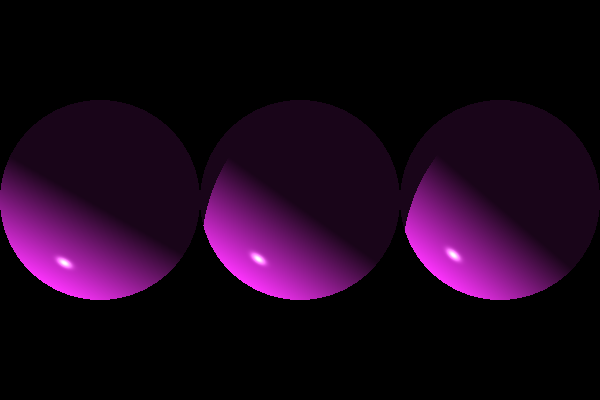
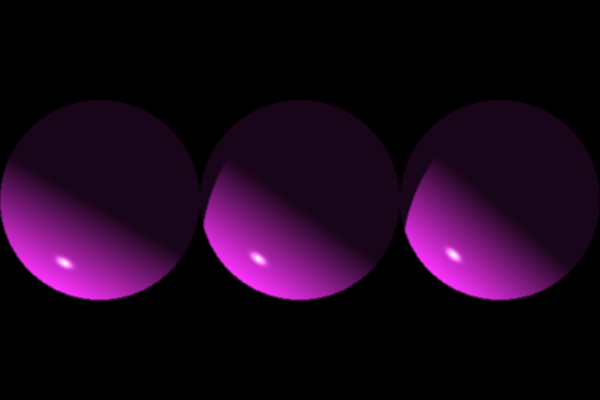
replace Scene::render with integrator::render

diff --git a/src/integrator/mod.rs b/src/integrator/mod.rs
@@ -58,23 +58,30 @@ pub fn render<'msh, 'mtrx, 'mtrl, S: Sampler>(
 ) {
     let image_sample_bounds = film.sample_bounds(filter.half_width(), filter.half_height());
     let (tile_count_x, tile_count_y) = tile_count(&image_sample_bounds);
-    for ty in 0..tile_count_y {
-        for tx in 0..tile_count_x {
+
+    let xs = 0..tile_count_x;
+    let ys = 0..tile_count_y;
+    let film_tiles: Vec<FilmTile> = ys
+        .flat_map(|y| xs.clone().map(move |x| (x, y)))
+        .filter_map(|(x, y)| {
             render_tile::<S>(
                 &camera,
                 film,
                 scene,
                 &image_sample_bounds,
-                tx,
-                ty,
+                x,
+                y,
                 tile_count_x,
                 &filter,
                 &ray_tracer,
                 max_depth,
-            );
-        }
+            )
+        })
+        .collect();
+
+    for ft in film_tiles {
+        film.merge_tile(&ft);
     }
-    // TODO: Merge film tiles returned by loop.
 }
 
 fn render_tile<'msh, 'mtrx, 'mtrl, S: Sampler>(
@@ -99,6 +106,8 @@ fn render_tile<'msh, 'mtrx, 'mtrl, S: Sampler>(
 
     if let Some(mut tile) = film.tile(&sample_bounds, filter.half_width(), filter.half_height()) {
         for pixel_min_corner in sample_bounds.range() {
+            println!("At ({}, {})", pixel_min_corner.x, pixel_min_corner.y);
+
             sampler.start_pixel(pixel_min_corner);
             loop {
                 let sample = sampler.get_camera_sample(pixel_min_corner);
@@ -148,8 +157,8 @@ fn tile_count(image_sample_bounds: &Bounds2<i32>) -> (usize, usize) {
     let sample_extent = image_sample_bounds.diagonal();
     const TILE_SIZE: usize = 16;
     (
-        (sample_extent.x.min(0) as usize + TILE_SIZE - 1) / TILE_SIZE,
-        (sample_extent.y.min(0) as usize + TILE_SIZE - 1) / TILE_SIZE,
+        (sample_extent.x.max(0) as usize + TILE_SIZE - 1) / TILE_SIZE,
+        (sample_extent.y.max(0) as usize + TILE_SIZE - 1) / TILE_SIZE,
     )
 }
 

diff --git a/src/scene.rs b/src/scene.rs
@@ -1,53 +1,13 @@
 use crate::{
-    camera::{Camera, CameraSample},
-    film::Film,
-    integrator::RayTracer,
     interaction::SurfaceInteraction,
     light::LightSource,
     primitive::{Primitive, PrimitiveAggregate},
     ray::Ray,
-    sampler::Sampler,
 };
-use cgmath::Point2;
-use image::ImageBuffer;
-use typed_arena::Arena;
 
 pub struct Scene<'msh, 'mtrx, 'mtrl> {
     pub primitives: PrimitiveAggregate<'msh, 'mtrx, 'mtrl>,
     pub lights: Vec<LightSource>,
-}
-
-pub fn render<'msh, 'mtrx, 'mtrl, S: Sampler>(
-    scene: &Scene<'msh, 'mtrx, 'mtrl>,
-    camera: Box<dyn Camera>,
-    film: &mut Film,
-    ray_tracer: Box<dyn RayTracer<'msh, 'mtrx, 'mtrl, S>>,
-    max_depth: usize,
-) -> image::ImageBuffer<image::Rgb<u8>, std::vec::Vec<u8>> {
-    ImageBuffer::from_fn(
-        film.resolution.x as u32,
-        film.resolution.y as u32,
-        |x, y| {
-            println!("At ({}, {})", x, y);
-            let sample = CameraSample::at_pixel_center(Point2::new(x as i32, y as i32));
-            let (ray, _) = camera.generate_ray(&sample);
-
-            // Unused but needed for incoming_radiance call.
-            let mut sampler = S::new(0);
-            let mut spectrum_arena = Arena::new();
-
-            let color = ray_tracer.incoming_radiance(
-                &ray,
-                scene,
-                &mut sampler,
-                &mut spectrum_arena,
-                0,
-                max_depth,
-            );
-            let pixel: image::Rgb<u8> = color.into();
-            pixel
-        },
-    )
 }
 
 impl<'msh, 'mtrx, 'mtrl> Scene<'msh, 'mtrx, 'mtrl> {

diff --git a/src/film/mod.rs b/src/film/mod.rs
@@ -1,9 +1,13 @@
 mod tile;
 
+use image::ImageBuffer;
 pub use tile::FilmTile;
 
-use crate::{color::Xyz, geometry::bounds::Bounds2};
-use cgmath::{Point2, Vector2};
+use crate::{
+    color::{RgbSpectrum, Xyz},
+    geometry::bounds::Bounds2,
+};
+use cgmath::{point2, Point2, Vector2};
 
 use self::tile::FilmTilePixel;
 
@@ -96,6 +100,27 @@ impl Film {
                 self.merge_pixel(pixel, &pixel_min_corner);
             }
         }
+    }
+
+    /// Write the contents of the film to an image buffer.
+    pub fn write_image(&self) -> image::ImageBuffer<image::Rgb<u8>, std::vec::Vec<u8>> {
+        ImageBuffer::from_fn(
+            self.resolution.x as u32,
+            self.resolution.y as u32,
+            |x, y| {
+                let index = self.pixel_index(&point2(x as i32, y as i32));
+                let pixel = self.pixels[index];
+
+                let color = if pixel.filter_weight_sum > 0.0 {
+                    (1.0 / pixel.filter_weight_sum) * RgbSpectrum::from(pixel.xyz)
+                } else {
+                    RgbSpectrum::black()
+                };
+
+                let output: image::Rgb<u8> = color.into();
+                output
+            },
+        )
     }
 
     /// Return a bounding box around the pixels (in raster space) that samples

diff --git a/src/demo.rs b/src/demo.rs
@@ -2,8 +2,9 @@ use crate::{
     camera::{Camera, OrthographicCamera},
     color::RgbSpectrum,
     film::Film,
+    filter::BoxFilter,
     geometry::matrix::identity4,
-    integrator::OriginalRayTracer,
+    integrator::{render, OriginalRayTracer},
     light::LightSource,
     material::Material,
     primitive::PrimitiveAggregate,
@@ -32,13 +33,17 @@ pub fn simple_ortho() {
         resolution,
     );
 
-    let img = scene::render::<ConstantSampler>(
+    let filter = BoxFilter::new(1.5, 1.5);
+    render::<ConstantSampler>(
         &scene,
         Box::new(camera),
         &mut film,
+        Box::new(filter),
         Box::new(OriginalRayTracer {}),
         5,
     );
+    let img = film.write_image();
+
     let _ = img.save("simple_ortho.png");
 }
 
@@ -61,13 +66,17 @@ pub fn complex_ortho() {
         resolution,
     );
 
-    let img = scene::render::<ConstantSampler>(
+    let filter = BoxFilter::new(1.5, 1.5);
+    render::<ConstantSampler>(
         &scene,
         Box::new(camera),
         &mut film,
+        Box::new(filter),
         Box::new(OriginalRayTracer {}),
         5,
     );
+    let img = film.write_image();
+
     let _ = img.save("complex_ortho.png");
 }
 

diff --git a/src/film/tile.rs b/src/film/tile.rs
@@ -14,7 +14,7 @@ pub struct FilmTile {
 
 impl FilmTile {
     pub fn new(pixel_bounds: Bounds2<i32>) -> Self {
-        let pixels = vec![FilmTilePixel::default(); pixel_bounds.area().min(0) as usize];
+        let pixels = vec![FilmTilePixel::default(); pixel_bounds.area().max(0) as usize];
         Self {
             pixel_bounds,
             pixels,
